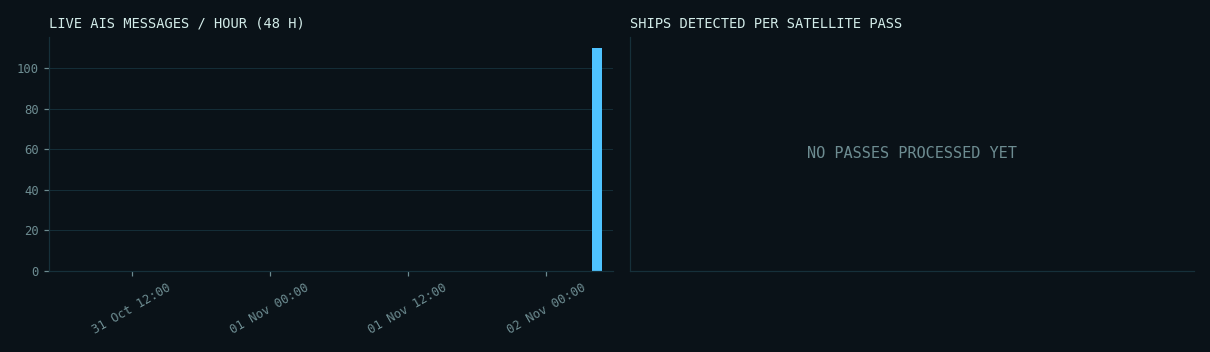
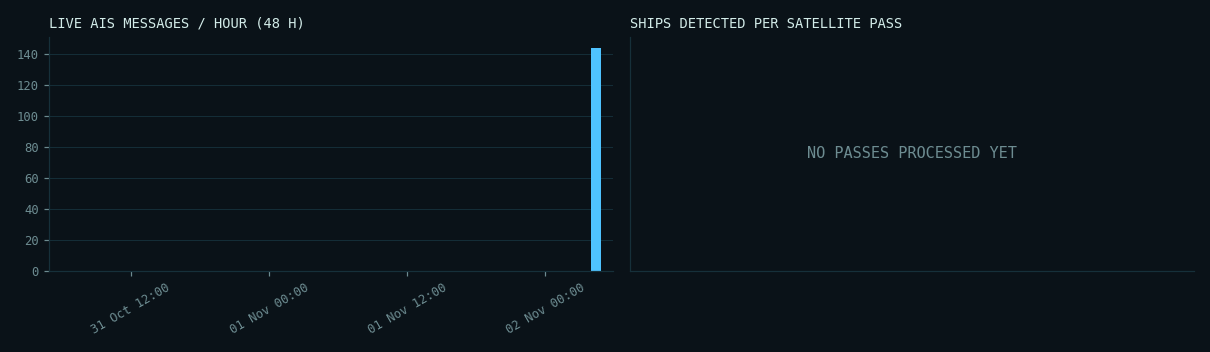
Automatic site update 2026-11-02 04:54 UTC

diff --git a/docs/denmark/index.html b/docs/denmark/index.html
@@ -82,13 +82,13 @@ footer{border-top:1px solid var(--line);padding:18px 0 28px;font:12px/1.6 var(--
   <div><div class="kicker">SAR &times; AIS &middot; MARITIME AWARENESS</div><div class="title">DARK VESSEL <b>DETECTION</b></div></div></a>
  <div class="status"><span class="pill"><span class="dot live"></span>AIS FEED <strong>LIVE</strong></span>
   <span class="pill">UTC <strong id="utc">--:--:--</strong></span>
-  <span class="pill">UPDATED <strong>02 Nov 04:50</strong></span></div>
+  <span class="pill">UPDATED <strong>02 Nov 04:54</strong></span></div>
 </div><nav class="tabs"><a class="" href="../index.html">OVERVIEW</a><a class="" href="../mumbai/index.html">MUMBAI</a><a class="on" href="../denmark/index.html">DENMARK</a><a class="" href="../demo/index.html">SIMULATION</a></nav></div></header>
 <main class="wrap"><div class="coords">SECTOR // DENMARK &middot; 55.20&ndash;55.50&deg;N &middot; 10.85&ndash;11.25&deg;E</div>
 <h1>Great Belt (Storebaelt), Denmark</h1><p class="lede">Validation area. Sentinel-1 images it almost daily and coastal AIS coverage is dense, so the full match between radar and AIS can be shown and checked.</p>
 <div class="grid">
  <div class="panel"><div class="label">Live AIS feed</div><div class="value small"><span class='ok'>RECEIVING</span></div><div class="muted mono" style="font-size:12px;margin-top:6px">last message 0 min ago</div></div>
- <div class="panel"><div class="label">Ships broadcasting &middot; 30 min</div><div class="value cyan">33</div></div>
+ <div class="panel"><div class="label">Ships broadcasting &middot; 30 min</div><div class="value cyan">36</div></div>
  <div class="panel"><div class="label">Matched &middot; latest pass</div><div class="value ">0</div></div>
  <div class="panel"><div class="label">Not tracked &middot; latest pass</div><div class="value red">0</div></div>
 </div>
@@ -96,7 +96,7 @@ footer{border-top:1px solid var(--line);padding:18px 0 28px;font:12px/1.6 var(--
 <div class="legend"><span><i style="background:var(--green)"></i>matched to AIS</span><span><i style="background:var(--red)"></i>not tracked &middot; high confidence</span>
 <span><i style="background:var(--amber)"></i>not tracked &middot; low confidence</span><span><i style="background:var(--cyan)"></i>live AIS position</span></div>
 <div id="map" class="map"></div><script>
-const D=[],LIVE=[{"lon": 10.813623333333334, "lat": 55.29814666666667, "sog": 0.0, "age": 18}, {"lon": 10.812735, "lat": 55.296285, "sog": 0.0, "age": 17}, {"lon": 10.81223, "lat": 55.296365, "sog": 0.0, "age": 15}, {"lon": 11.127891666666667, "lat": 55.33113, "sog": 0.0, "age": 15}, {"lon": 11.239883333333333, "lat": 55.20933333333333, "sog": 7.4, "age": 13}, {"lon": 11.107561666666667, "lat": 55.34688666666667, "sog": 0.0, "age": 13}, {"lon": 10.805713333333333, "lat": 55.301363333333335, "sog": 0.0, "age": 12}, {"lon": 11.139921666666668, "lat": 55.333485, "sog": 0.0, "age": 9}, {"lon": 11.052951666666667, "lat": 55.15674666666666, "sog": 17.9, "age": 8}, {"lon": 10.80687, "lat": 55.29985833333333, "sog": 0.0, "age": 8}, {"lon": 11.240371666666666, "lat": 55.21109833333333, "sog": 6.7, "age": 7}, {"lon": 11.128578333333333, "lat": 55.330978333333334, "sog": 0.0, "age": 6}, {"lon": 11.039086666666666, "lat": 55.12730666666666, "sog": 10.4, "age": 5}, {"lon": 11.138305, "lat": 55.33558, "sog": 0.0, "age": 5}, {"lon": 10.810371666666667, "lat": 55.298595, "sog": 0.0, "age": 5}, {"lon": 11.137853333333334, "lat": 55.33309833333333, "sog": 0.0, "age": 5}, {"lon": 10.997065, "lat": 55.15349166666667, "sog": 12.8, "age": 4}, {"lon": 10.806360000000002, "lat": 55.300255, "sog": 0.0, "age": 4}, {"lon": 11.137908333333334, "lat": 55.33343333333333, "sog": 0.0, "age": 3}, {"lon": 10.806776666666668, "lat": 55.30052666666666, "sog": 0.0, "age": 2}, {"lon": 11.019335000000002, "lat": 55.37450666666667, "sog": 9.6, "age": 2}, {"lon": 10.990901666666668, "lat": 55.114626666666666, "sog": 11.6, "age": 2}, {"lon": 11.136130000000001, "lat": 55.33563166666667, "sog": 0.0, "age": 2}, {"lon": 11.126161666666667, "lat": 55.33139166666667, "sog": 0.0, "age": 2}, {"lon": 10.808653333333332, "lat": 55.299080000000004, "sog": 0.0, "age": 2}, {"lon": 10.812028333333334, "lat": 55.297448333333335, "sog": 0.0, "age": 2}, {"lon": 10.787621666666666, "lat": 55.64093666666667, "sog": 12.6, "age": 2}, {"lon": 10.964895, "lat": 55.332256666666666, "sog": 0.0, "age": 1}, {"lon": 11.13901, "lat": 55.335028333333334, "sog": 0.0, "age": 1}, {"lon": 11.127001666666667, "lat": 55.33034833333333, "sog": 0.0, "age": 1}, {"lon": 11.085883333333333, "lat": 55.19611666666666, "sog": 10.9, "age": 1}, {"lon": 11.134335, "lat": 55.33344666666667, "sog": 0.0, "age": 0}, {"lon": 10.812728333333332, "lat": 55.29809, "sog": 0.0, "age": 0}],B=[[55.2,10.85],[55.5,11.25]];const m=L.map('map',{zoomSnap:.25}).fitBounds(B);
+const D=[],LIVE=[{"lon": 10.812735, "lat": 55.296285, "sog": 0.0, "age": 21}, {"lon": 10.81223, "lat": 55.296365, "sog": 0.0, "age": 20}, {"lon": 11.107561666666667, "lat": 55.34688666666667, "sog": 0.0, "age": 17}, {"lon": 10.805713333333333, "lat": 55.301363333333335, "sog": 0.0, "age": 17}, {"lon": 11.139921666666668, "lat": 55.333485, "sog": 0.0, "age": 13}, {"lon": 10.80687, "lat": 55.29985833333333, "sog": 0.0, "age": 12}, {"lon": 11.128578333333333, "lat": 55.330978333333334, "sog": 0.0, "age": 10}, {"lon": 10.806360000000002, "lat": 55.300255, "sog": 0.0, "age": 8}, {"lon": 11.137908333333334, "lat": 55.33343333333333, "sog": 0.0, "age": 7}, {"lon": 10.806776666666668, "lat": 55.30052666666666, "sog": 0.0, "age": 7}, {"lon": 11.136130000000001, "lat": 55.33563166666667, "sog": 0.0, "age": 6}, {"lon": 10.812028333333334, "lat": 55.297448333333335, "sog": 0.0, "age": 6}, {"lon": 10.787621666666666, "lat": 55.64093666666667, "sog": 12.6, "age": 6}, {"lon": 10.964895, "lat": 55.332256666666666, "sog": 0.0, "age": 6}, {"lon": 10.812728333333332, "lat": 55.29809, "sog": 0.0, "age": 4}, {"lon": 11.127931666666665, "lat": 55.33115333333333, "sog": 0.0, "age": 4}, {"lon": 11.044016666666666, "lat": 55.11024833333333, "sog": 17.2, "age": 3}, {"lon": 11.137881666666667, "lat": 55.333099999999995, "sog": 0.0, "age": 3}, {"lon": 11.126975, "lat": 55.33034166666666, "sog": 0.0, "age": 2}, {"lon": 10.810373333333333, "lat": 55.29857833333333, "sog": 0.0, "age": 2}, {"lon": 10.788878333333335, "lat": 55.297356666666666, "sog": 0.0, "age": 2}, {"lon": 11.03541, "lat": 55.104508333333335, "sog": 10.3, "age": 2}, {"lon": 11.107563333333333, "lat": 55.34410333333334, "sog": 0.0, "age": 2}, {"lon": 11.027231666666667, "lat": 55.36212, "sog": 9.8, "age": 2}, {"lon": 11.02168, "lat": 55.17024333333333, "sog": 12.4, "age": 1}, {"lon": 10.813611666666667, "lat": 55.29815, "sog": 0.0, "age": 1}, {"lon": 11.244281666666666, "lat": 55.212401666666665, "sog": 0.1, "age": 1}, {"lon": 11.138305, "lat": 55.33558, "sog": 0.0, "age": 0}, {"lon": 11.126151666666667, "lat": 55.33138833333333, "sog": 0.0, "age": 0}, {"lon": 10.808635, "lat": 55.299076666666664, "sog": 0.0, "age": 0}, {"lon": 10.770198333333333, "lat": 55.63695333333333, "sog": 12.0, "age": 0}, {"lon": 10.991518333333334, "lat": 55.13549666666667, "sog": 11.5, "age": 0}, {"lon": 11.139051666666667, "lat": 55.33505, "sog": 0.0, "age": 0}, {"lon": 11.134323333333333, "lat": 55.33345666666666, "sog": 0.0, "age": 0}, {"lon": 11.2392, "lat": 55.20771666666667, "sog": 8.6, "age": 0}, {"lon": 11.099133333333333, "lat": 55.209716666666665, "sog": 10.3, "age": 0}],B=[[55.2,10.85],[55.5,11.25]];const m=L.map('map',{zoomSnap:.25}).fitBounds(B);
 // re-fit once layout has settled: if the container had no size when the map was created, Leaflet falls back to zoom 0
 const refit=()=>{m.invalidateSize();m.fitBounds(B);};setTimeout(refit,0);window.addEventListener('load',refit);
 // standard OSM tiles (no API key), turned into a dark "radar console" basemap with a CSS filter (.radar-tiles)
@@ -113,8 +113,8 @@ L.control.layers(null,{'Radar detections (selected pass)':det,'Live AIS, last 30
 </script>
 <h2>Pass log</h2><p class='muted mono'>No passes processed yet.</p>
 <h2>Telemetry</h2><img class="chart" src="charts.png" alt="AIS messages per hour and ships detected per pass">
-<p class="muted mono" style="font-size:12px">Feed gaps in the last 24 h: 1 (2 min) &middot; AIS messages in the last hour: 110</p>
-<h2>Recent Sentinel-1 acquisitions</h2><ul class="acq"><li>catalogue unavailable</li></ul></main>
+<p class="muted mono" style="font-size:12px">Feed gaps in the last 24 h: 1 (2 min) &middot; AIS messages in the last hour: 144</p>
+<h2>Recent Sentinel-1 acquisitions</h2><ul class="acq"><li>2026-11-01 05:31 UTC</li><li>2026-10-31 16:52 UTC</li><li>2026-10-31 05:40 UTC</li><li>2026-10-30 17:00 UTC</li><li>2026-10-29 17:08 UTC</li><li>2026-10-27 05:23 UTC</li><li>2026-10-26 05:32 UTC</li><li>2026-10-25 16:52 UTC</li></ul></main>
 <footer><div class="wrap">Data: Copernicus Sentinel-1 (ESA) &middot; AIS via aisstream.io and the Danish Maritime Authority &middot;
 coastlines, structures and basemap &copy; OpenStreetMap contributors. Flags are candidates for review, not accusations.</div></footer>
 <script>(function(){const e=document.getElementById('utc');const t=()=>e.textContent=new Date().toISOString().slice(11,19);t();setInterval(t,1000);})();</script>

diff --git a/docs/index.html b/docs/index.html
@@ -82,14 +82,14 @@ footer{border-top:1px solid var(--line);padding:18px 0 28px;font:12px/1.6 var(--
   <div><div class="kicker">SAR &times; AIS &middot; MARITIME AWARENESS</div><div class="title">DARK VESSEL <b>DETECTION</b></div></div></a>
  <div class="status"><span class="pill"><span class="dot live"></span>AIS FEED <strong>LIVE</strong></span>
   <span class="pill">UTC <strong id="utc">--:--:--</strong></span>
-  <span class="pill">UPDATED <strong>02 Nov 04:50</strong></span></div>
+  <span class="pill">UPDATED <strong>02 Nov 04:54</strong></span></div>
 </div><nav class="tabs"><a class="on" href="index.html">OVERVIEW</a><a class="" href="mumbai/index.html">MUMBAI</a><a class="" href="denmark/index.html">DENMARK</a><a class="" href="demo/index.html">SIMULATION</a></nav></div></header>
 <main class="wrap"><div class="coords">SYSTEM OVERVIEW</div>
 <h1>Ships the radar sees that nobody is tracking</h1>
 <p class="lede">Radar satellites see ships whether or not they announce themselves. AIS is what ships broadcast about themselves.
 This system compares the two after every Sentinel-1 pass and lists the ships that appear on radar with no matching AIS signal.</p>
 <div class="grid" style="margin-top:18px"><div class="panel"><div class="label">Satellite passes processed</div><div class="value ">1</div></div><div class="panel"><div class="label">Ships matched to AIS</div><div class="value ">0</div></div>
-<div class="panel"><div class="label">Not publicly tracked</div><div class="value red">153</div></div><div class="panel"><div class="label">Broadcasting now &middot; 30 min</div><div class="value cyan">33</div></div></div>
+<div class="panel"><div class="label">Not publicly tracked</div><div class="value red">153</div></div><div class="panel"><div class="label">Broadcasting now &middot; 30 min</div><div class="value cyan">36</div></div></div>
 <h2>Pipeline</h2><div class="flow"><div class="step"><div class="n">01</div><div class="t">Radar image</div><div class="d">Sentinel-1 sees every large ship, day or night, through cloud.</div></div><div class="step"><div class="n">02</div><div class="t">Detect</div><div class="d">CFAR finds bright targets on dark sea; land, bridges and buoys are masked.</div></div><div class="step"><div class="n">03</div><div class="t">Align AIS</div><div class="d">Each ship's last AIS report is moved along its course to the exact image time.</div></div><div class="step"><div class="n">04</div><div class="t">Match</div><div class="d">The Hungarian algorithm pairs radar targets with AIS ships within a speed-aware radius.</div></div><div class="step"><div class="n">05</div><div class="t">Flag</div><div class="d">Unmatched targets become candidates, with an honest confidence label.</div></div></div>
 <h2>Sectors</h2><div class="grid"><a class="panel region" href="mumbai/index.html"><div class="label">Sector // MUMBAI</div>
 <div class="rt">Mumbai coast and harbour, India</div>
@@ -102,14 +102,14 @@ This system compares the two after every Sentinel-1 pass and lists the ships tha
 <div class="kv"><span>passes processed</span><span>0</span></div>
 <div class="kv"><span>ships matched to AIS</span><span class="ok">0</span></div>
 <div class="kv"><span>not publicly tracked</span><span class="bad">0</span></div>
-<div class="kv"><span>broadcasting now (30 min)</span><span style="color:var(--cyan)">33</span></div>
+<div class="kv"><span>broadcasting now (30 min)</span><span style="color:var(--cyan)">36</span></div>
 <div class="go">OPEN SECTOR &rarr;</div></a></div>
 <h2>Read before trusting a flag</h2>
 <div class="alert"><b>"Not publicly tracked" is not "switched off".</b> Small boats often carry no public AIS, free AIS comes from coastal
 receivers with limited range, and ships under about 40 m are not reliably visible to the satellite. Low-confidence flags are the ones the
 data cannot support: beyond receiver range, during an AIS feed gap, or with no AIS recorded.</div>
 <h2>Automatic runs</h2><p class="muted mono" style="font-size:12.5px;margin-top:-4px">Rebuilt on a schedule from the live AIS recording. Newest first.</p>
-<div class="tablewrap"><table><thead><tr><th>run (UTC)</th><th>mumbai live</th><th>mumbai msg/h</th><th>denmark live</th><th>denmark msg/h</th></tr></thead><tbody><tr><td>2026-11-02 04:50</td><td>0</td><td>0</td><td>33</td><td>110</td></tr><tr><td>2026-11-02 04:49</td><td>0</td><td>0</td><td>33</td><td>110</td></tr><tr><td>2026-11-02 04:49</td><td>0</td><td>0</td><td>32</td><td>108</td></tr><tr><td>2026-11-02 04:48</td><td>0</td><td>0</td><td>32</td><td>106</td></tr><tr><td>2026-11-02 04:47</td><td>0</td><td>0</td><td>32</td><td>104</td></tr><tr><td>2026-11-02 04:47</td><td>0</td><td>0</td><td>32</td><td>98</td></tr><tr><td>2026-11-02 04:27</td><td>0</td><td>0</td><td>6</td><td>6</td></tr><tr><td>2026-11-02 04:26</td><td>0</td><td>0</td><td>4</td><td>4</td></tr></tbody></table></div></main>
+<div class="tablewrap"><table><thead><tr><th>run (UTC)</th><th>mumbai live</th><th>mumbai msg/h</th><th>denmark live</th><th>denmark msg/h</th></tr></thead><tbody><tr><td>2026-11-02 04:54</td><td>0</td><td>0</td><td>36</td><td>144</td></tr><tr><td>2026-11-02 04:50</td><td>0</td><td>0</td><td>33</td><td>110</td></tr><tr><td>2026-11-02 04:49</td><td>0</td><td>0</td><td>33</td><td>110</td></tr><tr><td>2026-11-02 04:49</td><td>0</td><td>0</td><td>32</td><td>108</td></tr><tr><td>2026-11-02 04:48</td><td>0</td><td>0</td><td>32</td><td>106</td></tr><tr><td>2026-11-02 04:47</td><td>0</td><td>0</td><td>32</td><td>104</td></tr><tr><td>2026-11-02 04:47</td><td>0</td><td>0</td><td>32</td><td>98</td></tr><tr><td>2026-11-02 04:27</td><td>0</td><td>0</td><td>6</td><td>6</td></tr><tr><td>2026-11-02 04:26</td><td>0</td><td>0</td><td>4</td><td>4</td></tr></tbody></table></div></main>
 <footer><div class="wrap">Data: Copernicus Sentinel-1 (ESA) &middot; AIS via aisstream.io and the Danish Maritime Authority &middot;
 coastlines, structures and basemap &copy; OpenStreetMap contributors. Flags are candidates for review, not accusations.</div></footer>
 <script>(function(){const e=document.getElementById('utc');const t=()=>e.textContent=new Date().toISOString().slice(11,19);t();setInterval(t,1000);})();</script>

diff --git a/docs/mumbai/index.html b/docs/mumbai/index.html
@@ -82,7 +82,7 @@ footer{border-top:1px solid var(--line);padding:18px 0 28px;font:12px/1.6 var(--
   <div><div class="kicker">SAR &times; AIS &middot; MARITIME AWARENESS</div><div class="title">DARK VESSEL <b>DETECTION</b></div></div></a>
  <div class="status"><span class="pill"><span class="dot live"></span>AIS FEED <strong>LIVE</strong></span>
   <span class="pill">UTC <strong id="utc">--:--:--</strong></span>
-  <span class="pill">UPDATED <strong>02 Nov 04:50</strong></span></div>
+  <span class="pill">UPDATED <strong>02 Nov 04:54</strong></span></div>
 </div><nav class="tabs"><a class="" href="../index.html">OVERVIEW</a><a class="on" href="../mumbai/index.html">MUMBAI</a><a class="" href="../denmark/index.html">DENMARK</a><a class="" href="../demo/index.html">SIMULATION</a></nav></div></header>
 <main class="wrap"><div class="coords">SECTOR // MUMBAI &middot; 18.80&ndash;19.10&deg;N &middot; 72.55&ndash;72.95&deg;E</div>
 <h1>Mumbai coast and harbour, India</h1><p class="lede">The project's target area. Sentinel-1 images it about once every 12 days, and free AIS comes only from coastal receivers, so many unmatched ships here are simply out of receiver range.</p>
@@ -114,7 +114,7 @@ L.control.layers(null,{'Radar detections (selected pass)':det,'Live AIS, last 30
 <h2>Pass log</h2><div class='tablewrap'><table><thead><tr><th>pass (UTC)</th><th>ships</th><th>matched</th><th>not tracked</th><th>low conf.</th><th>match rate</th><th>AIS msgs</th></tr></thead><tbody><tr><td>2026-10-24 01:02 UTC</td><td>153</td><td class='ok'>0</td><td class='bad'>0</td><td style='color:var(--amber)'>153</td><td>0%</td><td>0</td></tr></tbody></table></div>
 <h2>Telemetry</h2><img class="chart" src="charts.png" alt="AIS messages per hour and ships detected per pass">
 <p class="muted mono" style="font-size:12px">Feed gaps in the last 24 h: 1 (2 min) &middot; AIS messages in the last hour: 0</p>
-<h2>Recent Sentinel-1 acquisitions</h2><ul class="acq"><li>catalogue unavailable</li></ul></main>
+<h2>Recent Sentinel-1 acquisitions</h2><ul class="acq"><li>2026-10-24 01:02 UTC</li></ul></main>
 <footer><div class="wrap">Data: Copernicus Sentinel-1 (ESA) &middot; AIS via aisstream.io and the Danish Maritime Authority &middot;
 coastlines, structures and basemap &copy; OpenStreetMap contributors. Flags are candidates for review, not accusations.</div></footer>
 <script>(function(){const e=document.getElementById('utc');const t=()=>e.textContent=new Date().toISOString().slice(11,19);t();setInterval(t,1000);})();</script>

diff --git a/docs/demo/index.html b/docs/demo/index.html
@@ -82,7 +82,7 @@ footer{border-top:1px solid var(--line);padding:18px 0 28px;font:12px/1.6 var(--
   <div><div class="kicker">SAR &times; AIS &middot; MARITIME AWARENESS</div><div class="title">DARK VESSEL <b>DETECTION</b></div></div></a>
  <div class="status"><span class="pill"><span class="dot live"></span>AIS FEED <strong>LIVE</strong></span>
   <span class="pill">UTC <strong id="utc">--:--:--</strong></span>
-  <span class="pill">UPDATED <strong>02 Nov 04:50</strong></span></div>
+  <span class="pill">UPDATED <strong>02 Nov 04:54</strong></span></div>
 </div><nav class="tabs"><a class="" href="../index.html">OVERVIEW</a><a class="" href="../mumbai/index.html">MUMBAI</a><a class="" href="../denmark/index.html">DENMARK</a><a class="on" href="../demo/index.html">SIMULATION</a></nav></div></header>
 <main class="wrap"><div class="coords">SIMULATION // SYNTHETIC SCENES WITH KNOWN GROUND TRUTH</div>
 <h1>Simulation: the whole pipeline with a known answer</h1>
